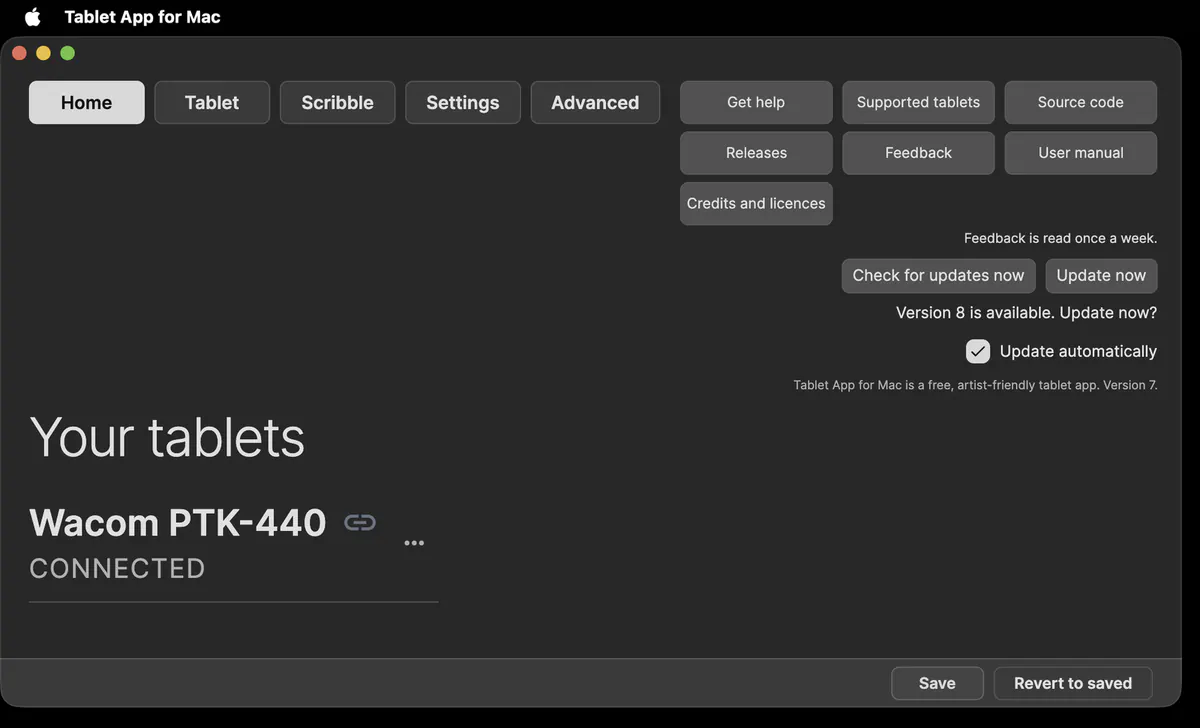
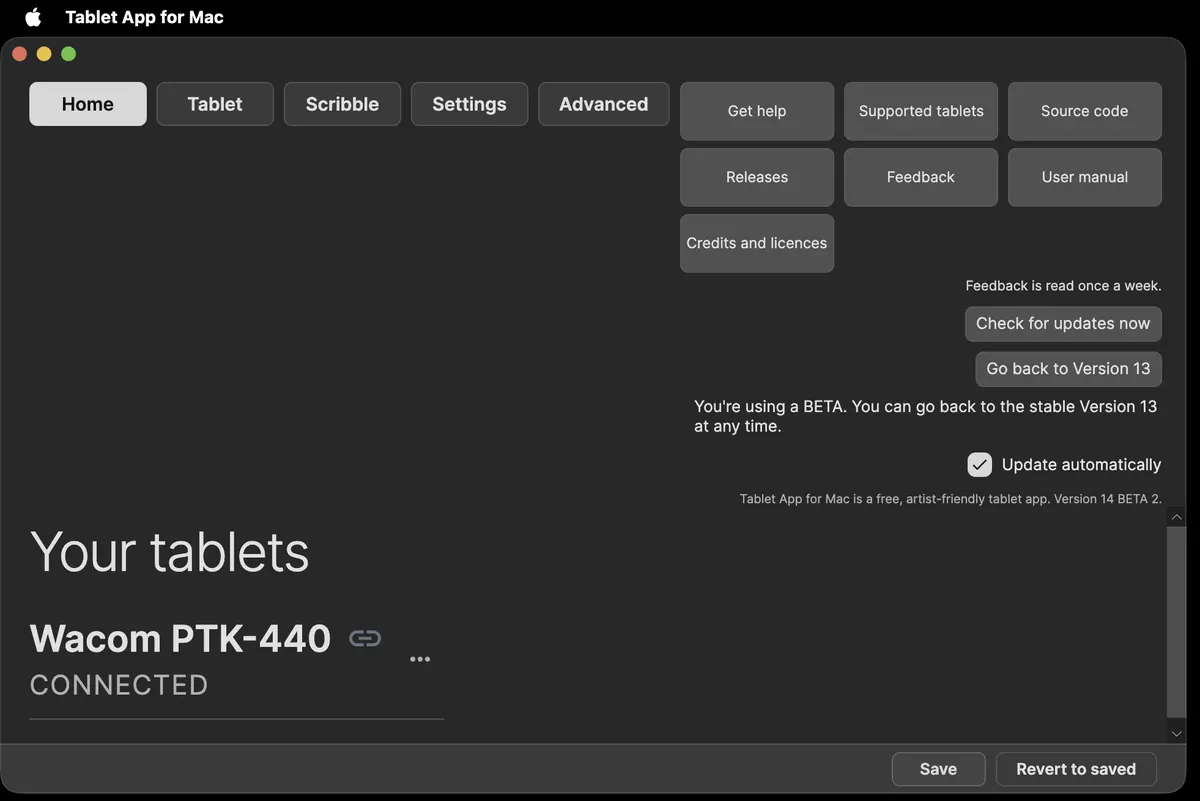
Home and Help: new Home screenshot showing Go back to Version 13 from a BETA
Zak's screenshot (Version 14 BETA 2). Home 1200 px (WebP q78 + PNG),
Help 960 px (WebP q72 + PNG); caption and alt text updated.

Claude-Session: https://claude.ai/code/session_01Jydxp2SiDwWyBLWbzC1CQp

diff --git a/index.html b/index.html
@@ -19,7 +19,7 @@
 </ol>
 <p><strong>Tip:</strong> if the pen still doesn't move the pointer, select Tablet App for Mac in those two lists, remove it with <strong>−</strong>, add it again with <strong>+</strong>, then reopen the app. Need more help? See the <a href="help/">user manual</a>.</p></section>
 
-<figure class="slot" data-slot="02-home-overview"><picture><source type="image/webp" srcset="/tablet-app-for-mac/assets/shots/02-home-overview.webp"><img src="/tablet-app-for-mac/assets/shots/02-home-overview.png" alt="Home page of Tablet App for Mac" width="1200" height="728" loading="lazy" decoding="async"></picture><figcaption>Home: your tablets and their status.</figcaption></figure><ul class="facts"><li>Free and open source (GPL-3.0)</li><li>No tracking or telemetry</li><li>For Apple silicon Macs</li><li>Tested on macOS 27.0.1 with an Intuos4 Small (PTK-440)</li></ul>
+<figure class="slot" data-slot="02-home-overview"><picture><source type="image/webp" srcset="/tablet-app-for-mac/assets/shots/02-home-overview.webp"><img src="/tablet-app-for-mac/assets/shots/02-home-overview.png" alt="Home page of Tablet App for Mac, running a BETA, with Check for updates now and Go back to Version 13" width="1200" height="801" loading="lazy" decoding="async"></picture><figcaption>Home: your tablets and updates. Running a BETA? Go back returns you to the stable version.</figcaption></figure><ul class="facts"><li>Free and open source (GPL-3.0)</li><li>No tracking or telemetry</li><li>For Apple silicon Macs</li><li>Tested on macOS 27.0.1 with an Intuos4 Small (PTK-440)</li></ul>
 <p class="muted">Tested only on that system and tablet. Use at your own risk.</p>
 <h2>What is new in Version 13</h2><ul><li>Force Quit and permission lists no longer show OpenTabletDriver for the bundled daemon (signed as com.freetabletapp.mac.daemon).</li><li>Permission and Health Input Monitoring copy say Tablet App for Mac.</li><li>Quiet start at login and Dock behaviour from Versions 7–12 are kept.</li></ul>
 <figure class="slot" data-slot="34-ring-turn"><picture><source type="image/webp" srcset="/tablet-app-for-mac/assets/shots/34-ring-turn.webp"><img src="/tablet-app-for-mac/assets/shots/34-ring-turn.png" alt="Touch ring page with the finger on the ring" width="1200" height="1253" loading="lazy" decoding="async"></picture><figcaption>Touch ring: the active mode is lit, its number is on the centre button, and the angle and direction show under the ring.</figcaption></figure>

diff --git a/help/index.html b/help/index.html
@@ -29,7 +29,7 @@
 <li>At login the app starts silently: only the pen icon in the menu bar shows. Click it to open the window.</li>
 <li>Only one copy runs. Opening the app again brings the running copy to the front.</li>
 </ul><p class="backtop"><a href="#chapters">↑ Back to chapters</a></p></section>
-<section class="chap" id="home" aria-labelledby="home-h"><h2 id="home-h">Home</h2><figure><picture><source type="image/webp" srcset="/tablet-app-for-mac/assets/manual/02-home-overview.webp"><source type="image/png" srcset="/tablet-app-for-mac/assets/manual/02-home-overview.png"><img src="/tablet-app-for-mac/assets/manual/02-home-overview.webp" alt="Home" width="960" height="583" loading="eager" decoding="async"></picture><figcaption>Home</figcaption></figure>
+<section class="chap" id="home" aria-labelledby="home-h"><h2 id="home-h">Home</h2><figure><picture><source type="image/webp" srcset="/tablet-app-for-mac/assets/manual/02-home-overview.webp"><source type="image/png" srcset="/tablet-app-for-mac/assets/manual/02-home-overview.png"><img src="/tablet-app-for-mac/assets/manual/02-home-overview.webp" alt="Home" width="960" height="641" loading="eager" decoding="async"></picture><figcaption>Home</figcaption></figure>
 <ul>
 <li><strong>Your tablets</strong>: one card per connected or remembered tablet. Click a card to open its settings.</li>
 <li>Card <strong>⋯</strong> menu: <strong>Open tablet settings</strong>, <strong>Forget this tablet</strong>.</li>
